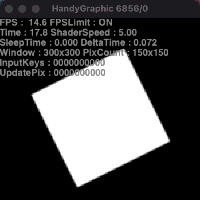
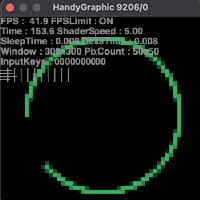
ドキュメントの修正

diff --git a/CODEMANUAL.md b/CODEMANUAL.md
@@ -89,11 +89,17 @@ int shaderFuncsSize = shaderDisplayer.GetShaderFuncsSize();
 //現在実行されてるシェーダーの要素番号を取得
 int shaderFuncsIndex = shaderDisplayer.GetShaderFuncsIndex();
 
-//フレームを描画するのに、どれだけのピクセルをアップデートしたかを取得
-unsigned int updatePixCount = shaderDisplayer.GetUpdatePixCount();
-
 //現在のシェーダーの再生速度を取得
 float shaderSpeed = shaderDisplayer.GetShaderSpeed();
+
+//Shaderの計算にかかった時間を取得
+double pixUpdateDt = shaderDisplayer.GetPixUpdateDeltaTime();
+
+//ピクセルのレンダリング時間を取得
+double pixRenderDt = shaderDisplayer.GetPixRenderDeltaTime();
+
+//廃止
+//unsigned int updatePixCount = shaderDisplayer.GetUpdatePixCount();
 ```
 
 # EventHandlers/InputManager.cpp
@@ -140,7 +146,7 @@ FPSCounter fpsCounter = FPSCounter(&t, 0.5f);
 fpsCounter.Subscribe(flameUpdateDelegate);
 
 //再度初期化処理を行う
-inputManager.Start();
+fpsCounter.Start();
 
 //起動状態を設定する
 fpsCounter.SetActive(false);
@@ -150,7 +156,6 @@ bool active = fpsCounter.GetActive();
 ```
 
 ```C++
-
 //FPS数を取得
 float fps = inputManager.GetFPS();
 ```
@@ -177,5 +182,5 @@ bool active = doubleLayerDisplayer.GetActive();
 
 ```C++
 //使用しているダブルレイヤーを取得
-doubleLayer dl = GetDoubleLayer();
+doubleLayer dl = doubleLayerDisplayer.GetDoubleLayer();
 ```

diff --git a/HGKNOWLEDGE.md b/HGKNOWLEDGE.md
@@ -114,8 +114,9 @@ HGShaderでは、`std::chrono::system_clock`を使用しました<br>
 現在のdeltaTimeを比較し、Threadを止める時間を決めているわけです<br>
 (これらの処理は`Main.cpp`内にあります)<br>
 <br>
-しかしこの比較の仕方が適当なので、FPS数が`TARGET_FPS`を大幅に超えることがあります<br>
-前のdeltaTimeと今のdeltaTimeで微分して、次の状態を予測する必要があると考えています<br>
+(21/4/3 解決)<br>
+~~しかしこの比較の仕方が適当なので、FPS数が`TARGET_FPS`を大幅に超えることがあります<br>
+前のdeltaTimeと今のdeltaTimeで微分して、次の状態を予測する必要があると考えています<br>~~
 
 # キー入力周りの機能を改善する
 `HgEventNonBlocking`関数などで受け取れるキー入力の情報は、入力されているか、離されているか の2種類です<br>

diff --git a/README.md b/README.md
@@ -54,7 +54,9 @@ Sourceフォルダ内で以下のコードを実行します<br>
 - Window : 現在のWindowSize<br>
 - PixCount : 現在表示されているピクセルの数<br>
 - InputKeys : 入力のビットフラグ<br>
-- UpdatePix : 多くのピクセルが更新されると"0"が増える "0"1つで100個のピクセルの更新を表す<br>
+- グラフ : 上から以下の情報を表示する<br>
+　　　シェーダーの計算時間、ピクセルのレンダリング時間、1フレーム生成にかかった総合時間、Threadの停止時間<br>
+　　　縦線は時間の長さを表し、1つ目の線は10msを表す<br>
 
 # サンプルにシェーダーを追加する
 `Main.cpp` 内のShaderDisplayerの引数にシェーダーを登録すると表示されるようになります<br>
